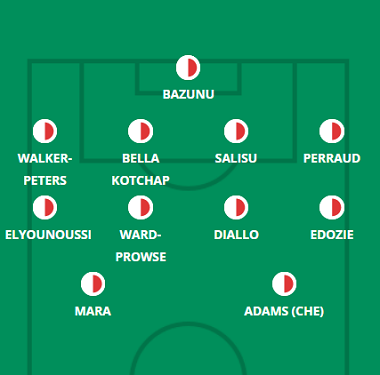
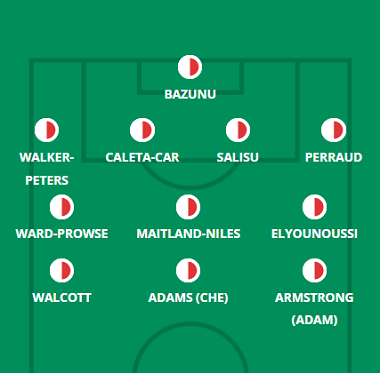
new, south e west

diff --git a/newcastle.html b/newcastle.html
@@ -68,7 +68,7 @@
             <hgroup>
                 <h1> Provável Escalação</h1>
                 <h2 class="direita"> por FabioVascão </h2>
-                <h3 class="direita"> Atualizado em 14/Outubro/2022 </h3>
+                <h3 class="direita"> Atualizado em 18/Outubro/2022 </h3>
             </hgroup>
     
             <h2 class="time"> <img src="_fotos/_logos/logonewcastle.png" />Newcastle</h2>
@@ -77,8 +77,8 @@
                     <img src="_fotos/_dinamicas/newcastle.png" />
                 </figure>
             </aside>
-                <div class="escalacao"><h2 class="titulo">Ultimas Notícias</h2> <h4><p>Alexander Isak (lesão no tornozelo), Karl Darlow (lesão no tornozelo), Emil Krafth (lesão no joelho), Jonjo Shelvey (lesão na coxa) e Matt Ritchie (lesão na panturrilha) ainda estão de fora, mas os Magpies não têm novas preocupações com lesões antes da viagem ao Manchester United. Eddie Howe nomeou uma equipe inalterada nas últimas duas partidas, com o Newcastle vencendo as duas de forma abrangente, mas não é certo que ele não faça uma ou duas alterações neste fim de semana, com Matt Targett a possibilidade de retornar como lateral-esquerdo para lidar com o ritmo de Antony e Joelinton uma opção sobre Sean Longstaff ou Joe Willock para reforçar o meio-campo em Old Trafford. Provavelmente não haverá muitas mudanças em outros lugares (o recém-reformado Allan Saint-Maximin pode ser novamente facilitado como substituto, principalmente com Jacob Murphy jogando bem), mas provavelmente haverá mais ajustes na próxima semana, com três jogos para negociar no espaço de oito dias. A marca de propensão a lesões de Wilson, de fato, pode deixá-lo no banco para uma das próximas três partidas em uma tentativa de reduzir o risco de uma lesão muscular, com Chris Wood esperando na frente.</p></h4><br>
-                    <h4><strong>Jogadores fora da próxima partida:</strong> Darlow, Gayle, Isak, Krafth e Shelvey</h4><br><br>
+                <div class="escalacao"><h2 class="titulo">Ultimas Notícias</h2> <h4><p>Alexander Isak (tornozelo), Karl Darlow (tornozelo), Emil Krafth (joelho) e Matt Ritchie (panturrilha) ainda estão ausentes, enquanto Allan Saint-Maximin sofreu uma recorrência de uma lesão no tendão e também ficará de fora do jogo do Everton. Eddie Howe disse na terça-feira que Jonjo Shelvey (coxa), de volta ao banco na 11ª rodada, só será usado "em uma emergência", mas Fabian Schar deve estar em forma depois de um problema persistente no pé surgir novamente em Old Trafford. O Newcastle tem uma das reviravoltas mais apertadas nas Rodadas 11-13, então algumas mudanças podem estar em breve, com nomes como Matt Targett, Jamaal Lascelles, Joe Willock e Ryan Fraser, todos certamente prontos para ver o tempo de jogo de alguma variedade ao longo do próximas duas partidas. Se Callum Wilson pode sobreviver às demandas físicas de uma semana de três jogos ileso é outra questão, com Chris Wood potencialmente na linha para iniciar uma das próximas duas partidas. Apenas cinco jogadores foram titulares sempre presentes na última semana de três jogos, com os zagueiros rodando no meio da partida.</p></h4><br>
+                    <h4><strong>Jogadores fora da próxima partida:</strong> Darlow, Gayle, Isak, Krafth, Ritchie e Saint-Maximin</h4><br><br>
                     <h4><strong>Jogadores dúvidas:</strong> </h4>
                 </div> 
         </header>

diff --git a/westham.html b/westham.html
@@ -68,7 +68,7 @@
             <hgroup>
                 <h1> Provável Escalação</h1>
                 <h2 class="direita"> por FabioVascão </h2>
-                <h3 class="direita"> Atualizado em 14/Outubro/2022 </h3>
+                <h3 class="direita"> Atualizado em 18/Outubro/2022 </h3>
             </hgroup>
     
             <h2 class="time"> <img src="_fotos/_logos/logowestham.png" />West Ham</h2>
@@ -77,9 +77,9 @@
                     <img src="_fotos/_dinamicas/westham.png" />
                 </figure>
             </aside>
-                <div class="escalacao"><h2 class="titulo">Ultimas Notícias</h2> <h4><p>Nayef Aguerd (lesão no tornozelo) e Maxwel Cornet (lesão no panturrilha) permanecem de fora, enquanto seria uma surpresa se Angelo Ogbonna fosse arriscado depois que o veterano parou de mancar na vitória de quinta-feira sobre o Anderlecht com um aperto no tendão. David Moyes estava mais esperançoso em relação a outros quatro jogadores sinalizados: a ausência de Thilo Kehrer (pancada) e a substituição de Craig Dawson (pancada) na partida da Europa Conference League foram descritas como "precaução" por seu técnico, enquanto Michail Antonio e Kurt Zouma só faltavam por motivo de doença. Se todos os itens acima estiverem adequados, poderemos ver o mesmo time sendo enviado por Moyes contra o Fulham no último fim de semana, com todos os jogadores do onze inicial do fim de semana passado recebendo minutos administrados ou um descanso na noite de quinta-feira. Se um (ou mais) Kehrer, Dawson ou Zouma estiver fora, no entanto, Vladimir Coufal ou Ben Johnson sairão do banco, com o último capaz de cobrir tanto a lateral-direita quanto o zagueiro.</p></h4><br>
+                <div class="escalacao"><h2 class="titulo">Ultimas Notícias</h2> <h4><p>Nayef Aguerd (tornozelo) e Maxwel Cornet (panturrilha) permanecem de fora, enquanto as dúvidas permanecem sobre Kurt Zouma (covid) e Craig Dawson (perna) depois de terem perdido o empate com o Southampton. David Moyes disse no pré-jogo de sexta-feira que Zouma "fez um pouco de treinamento", mas não sabia se "ainda o faria certo", acrescentando que os Hammers estavam "inseguros sobre" Dawson. Ben Johnson, Thilo Kehrer e Aaron Cresswell provavelmente terão que ir novamente se esses dois perderem e Moyes ficar com três costas (Angelo Ogbonna reclamou duas vezes de tensão nos tendões nos últimos jogos da Liga Europa, então pode não ser arriscado), mas Moyes pode se refrescar as coisas em outros lugares, com nomes como Michail Antonio, Pablo Fornals e Said Benrahma, todas opções relativamente novas. Gianluca Scamacca, cuja forma física foi um problema nos primeiros meses após sua mudança, dividiu tempo de jogo com Antonio em casa e no exterior recentemente e pode desistir, enquanto Emerson Palmieri será o contrapeso se Moyes voltar para um 4-2-3-1 e pode até ser substituído independentemente. Flynn Downes e Manuel Lanzini têm tido tempo de jogo regular na Liga Europa e são opções no pivô duplo à prova de rotação, se necessário.</p></h4><br>
                     <h4><strong>Jogadores fora da próxima partida:</strong> Aguerd e Cornet </h4><br><br>
-                    <h4><strong>Jogadores dúvidas:</strong> Antonio, Dawson, Kehrer, Ogbonna e Zouma</h4>
+                    <h4><strong>Jogadores dúvidas:</strong> Dawson e Zouma</h4>
                 </div> 
         </header>
         </article>

diff --git a/south.html b/south.html
@@ -68,7 +68,7 @@
             <hgroup>
                 <h1> Provável Escalação</h1>
                 <h2 class="direita"> por FabioVascão </h2>
-                <h3 class="direita"> Atualizado em 14/Outubro/2022 </h3>
+                <h3 class="direita"> Atualizado em 18/Outubro/2022 </h3>
             </hgroup>
     
             <h2 class="time"> <img src="_fotos/_logos/logosouth.png" />Southampton</h2>
@@ -77,9 +77,9 @@
                     <img src="_fotos/_dinamicas/south.png" />
                 </figure>
             </aside>
-                <div class="escalacao"><h2 class="titulo">Ultimas Notícias</h2> <h4><p>Tino Livramento (lesão no joelho), Romeo Lavia (lesão muscular) e Moussa Djenepo (covid) são os únicos jogadores fora da visita do West Ham, mas Ralph Hasenhuttl ainda tem muitas opções disponíveis para ele neste fim de semana, e adivinhar ele está se mostrando complicado no momento, enquanto luta para elaborar um plano para impedir uma sequência de quatro derrotas consecutivas. Hasenhuttl disse no pré-jogo de sexta-feira que os Saints disputaram uma partida com portões fechados no meio da semana e que "alguns jogadores [que não tiveram tempo de jogo] mostraram que podem ser uma opção neste fim de semana", então espere mais mudanças contra os Hammers. Moi Elyounoussi e Samuel Edozie podem ser dois desses jogadores com chance de não ter sido titular em nenhum dos dois últimos jogos do Southampton, mas estamos realmente agarrando as palhas aqui, não tendo visto o amistoso, com Lyanco, Duje Caleta-Car, Juan Larios, Sekou Mara e Ainsley Maitland-Niles entre as outras opções que iniciaram duas partidas ou menos em 2022/23.</p></h4><br>
-                    <h4><strong>Jogadores fora da próxima partida:</strong> Djenepo, Lavia, Livramento e Romeu</h4><br><br>
-                    <h4><strong>Jogadores dúvidas:</strong> </h4>
+                <div class="escalacao"><h2 class="titulo">Ultimas Notícias</h2> <h4><p>Tino Livramento (joelho) está ausente por um longo período e Romeo Lavia (muscular) não retornará aos treinos até o final da semana, enquanto Armel Bella-Kotchap agora enfrenta um período de afastamento após ter deslocado o ombro no sorteio com West Ham. Theo Walcott perdeu a partida de domingo por doença, mas pode voltar à disputa na quarta-feira, enquanto Ibrahima Diallo é o último jogador a se sentir "indisposto" e terá que ser avaliado. Os Saints pararam as derrotas com um empate credível contra os Hammers, então pode haver relativamente poucas mudanças quando eles fizerem a curta jornada ao longo da costa sul. Duje Caleta-Car parece pronto para substituir Bella-Kotchap no meio-campo no único ajuste forçado, enquanto a rápida reviravolta entre as semanas 11 e 12 pode ver Ralph Hasenhuttl refrescar uma ou duas posições: Sekou Mara, Samuel Edozie e Stuart Armstrong saiu do banco no domingo para substituir os três da frente que começaram o jogo, mas Walcott deveria começar a partida em St Mary's antes da covid, então ele poderia ter uma rara derrota contra o Bournemouth se ele estiver totalmente recuperado.</p></h4><br>
+                    <h4><strong>Jogadores fora da próxima partida:</strong> Bella Kotchap, Lavia, Livramento e Romeu</h4><br><br>
+                    <h4><strong>Jogadores dúvidas:</strong> Diallo e Walcott</h4>
                 </div> 
         </header>
         </article>
